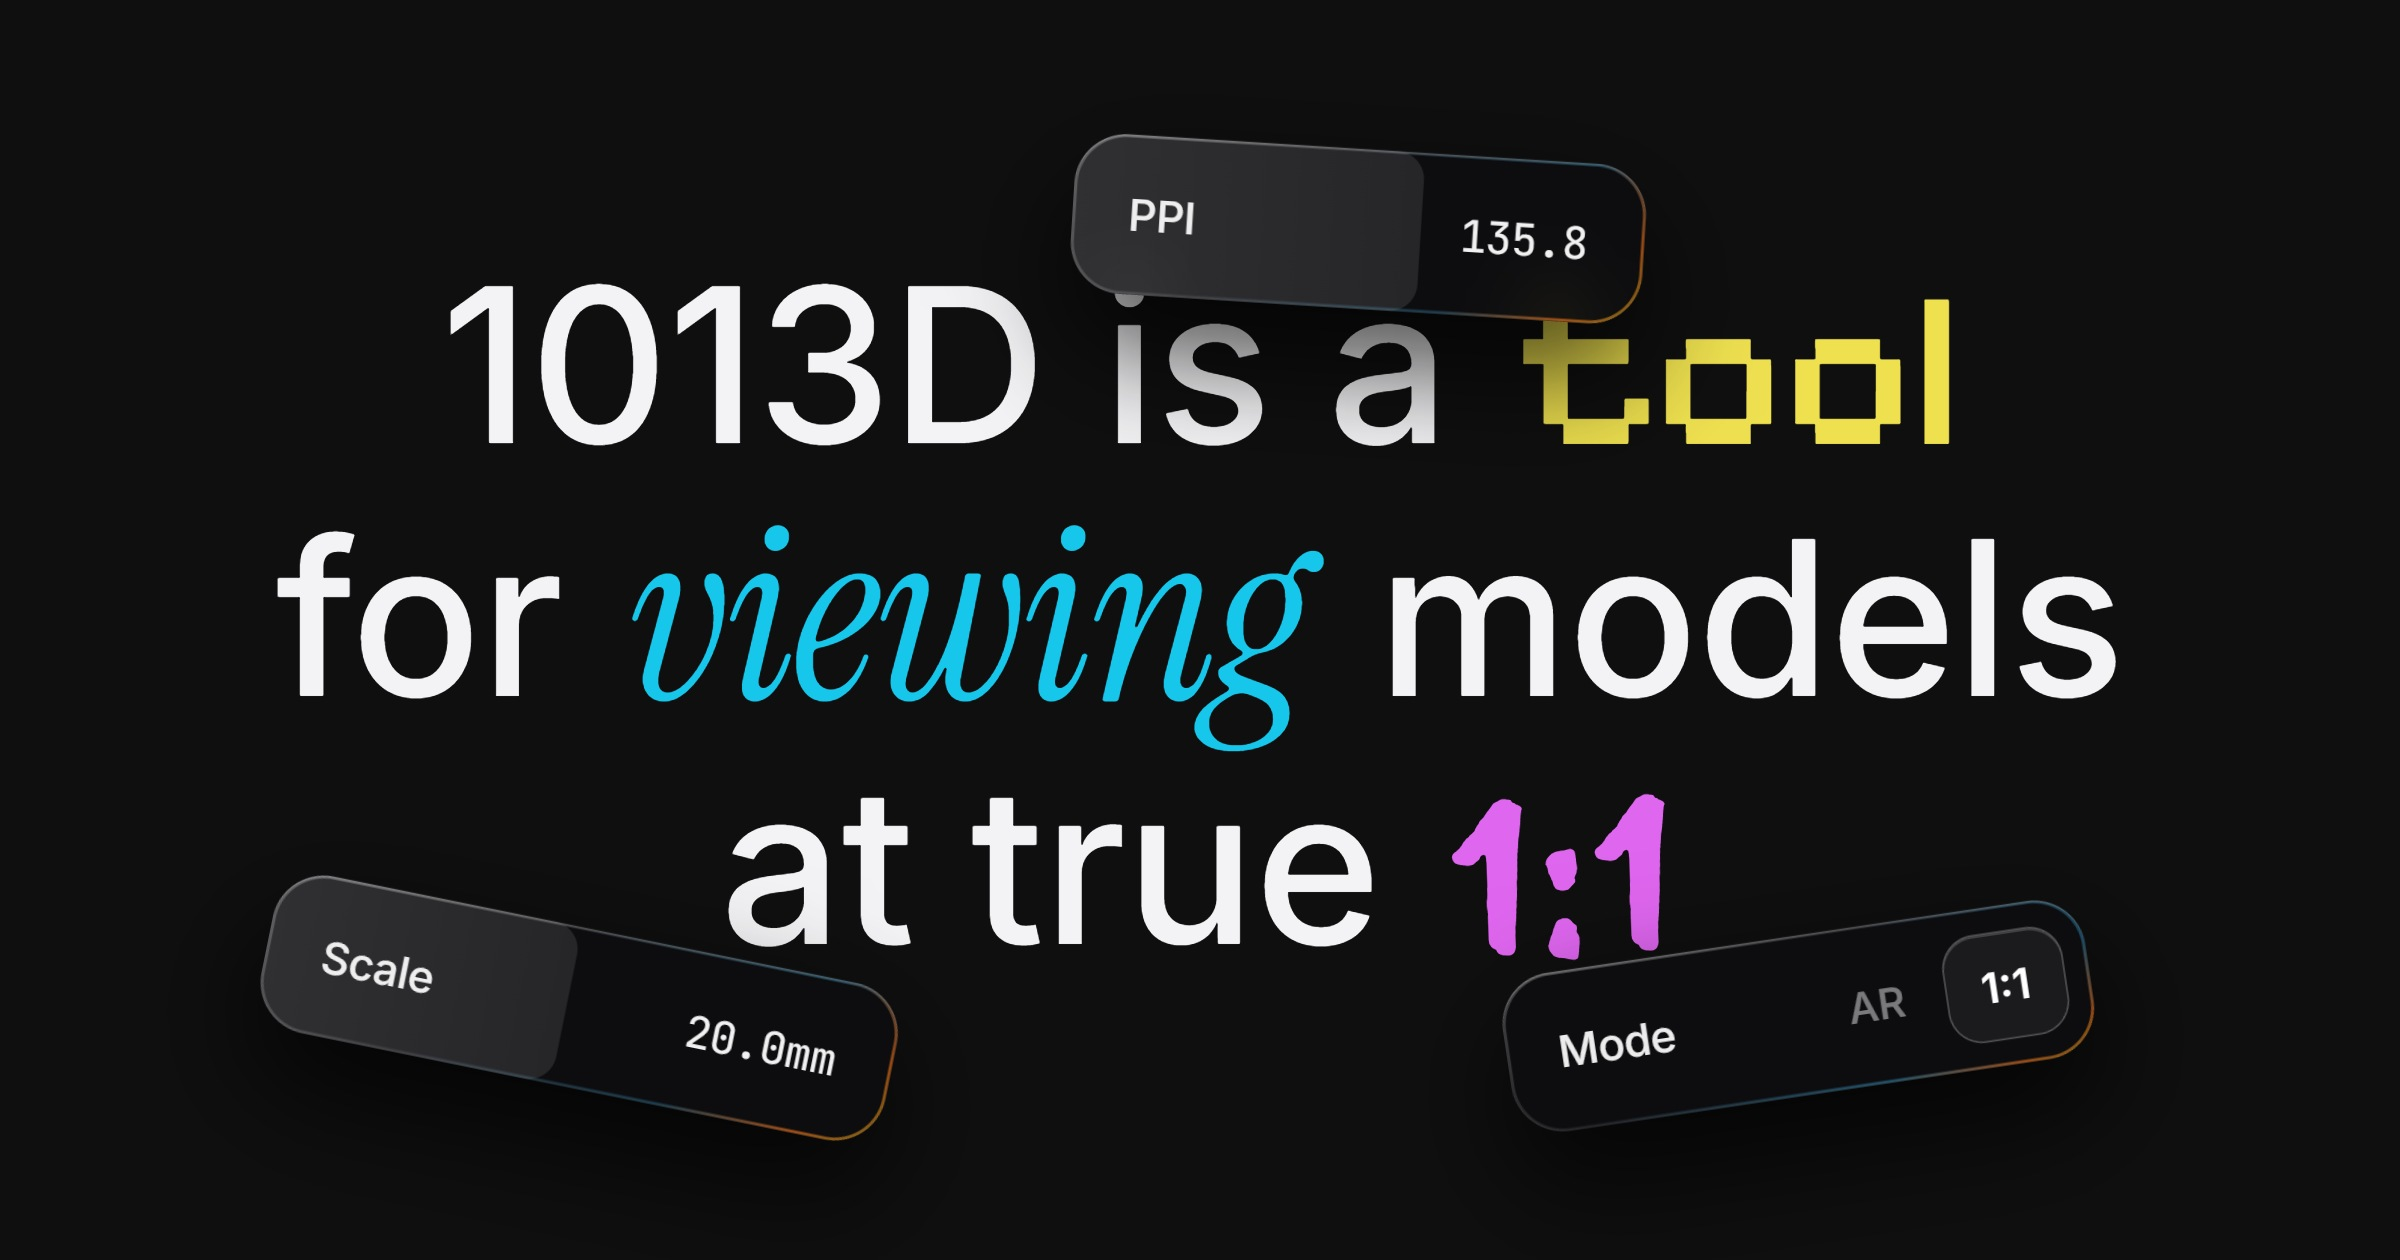
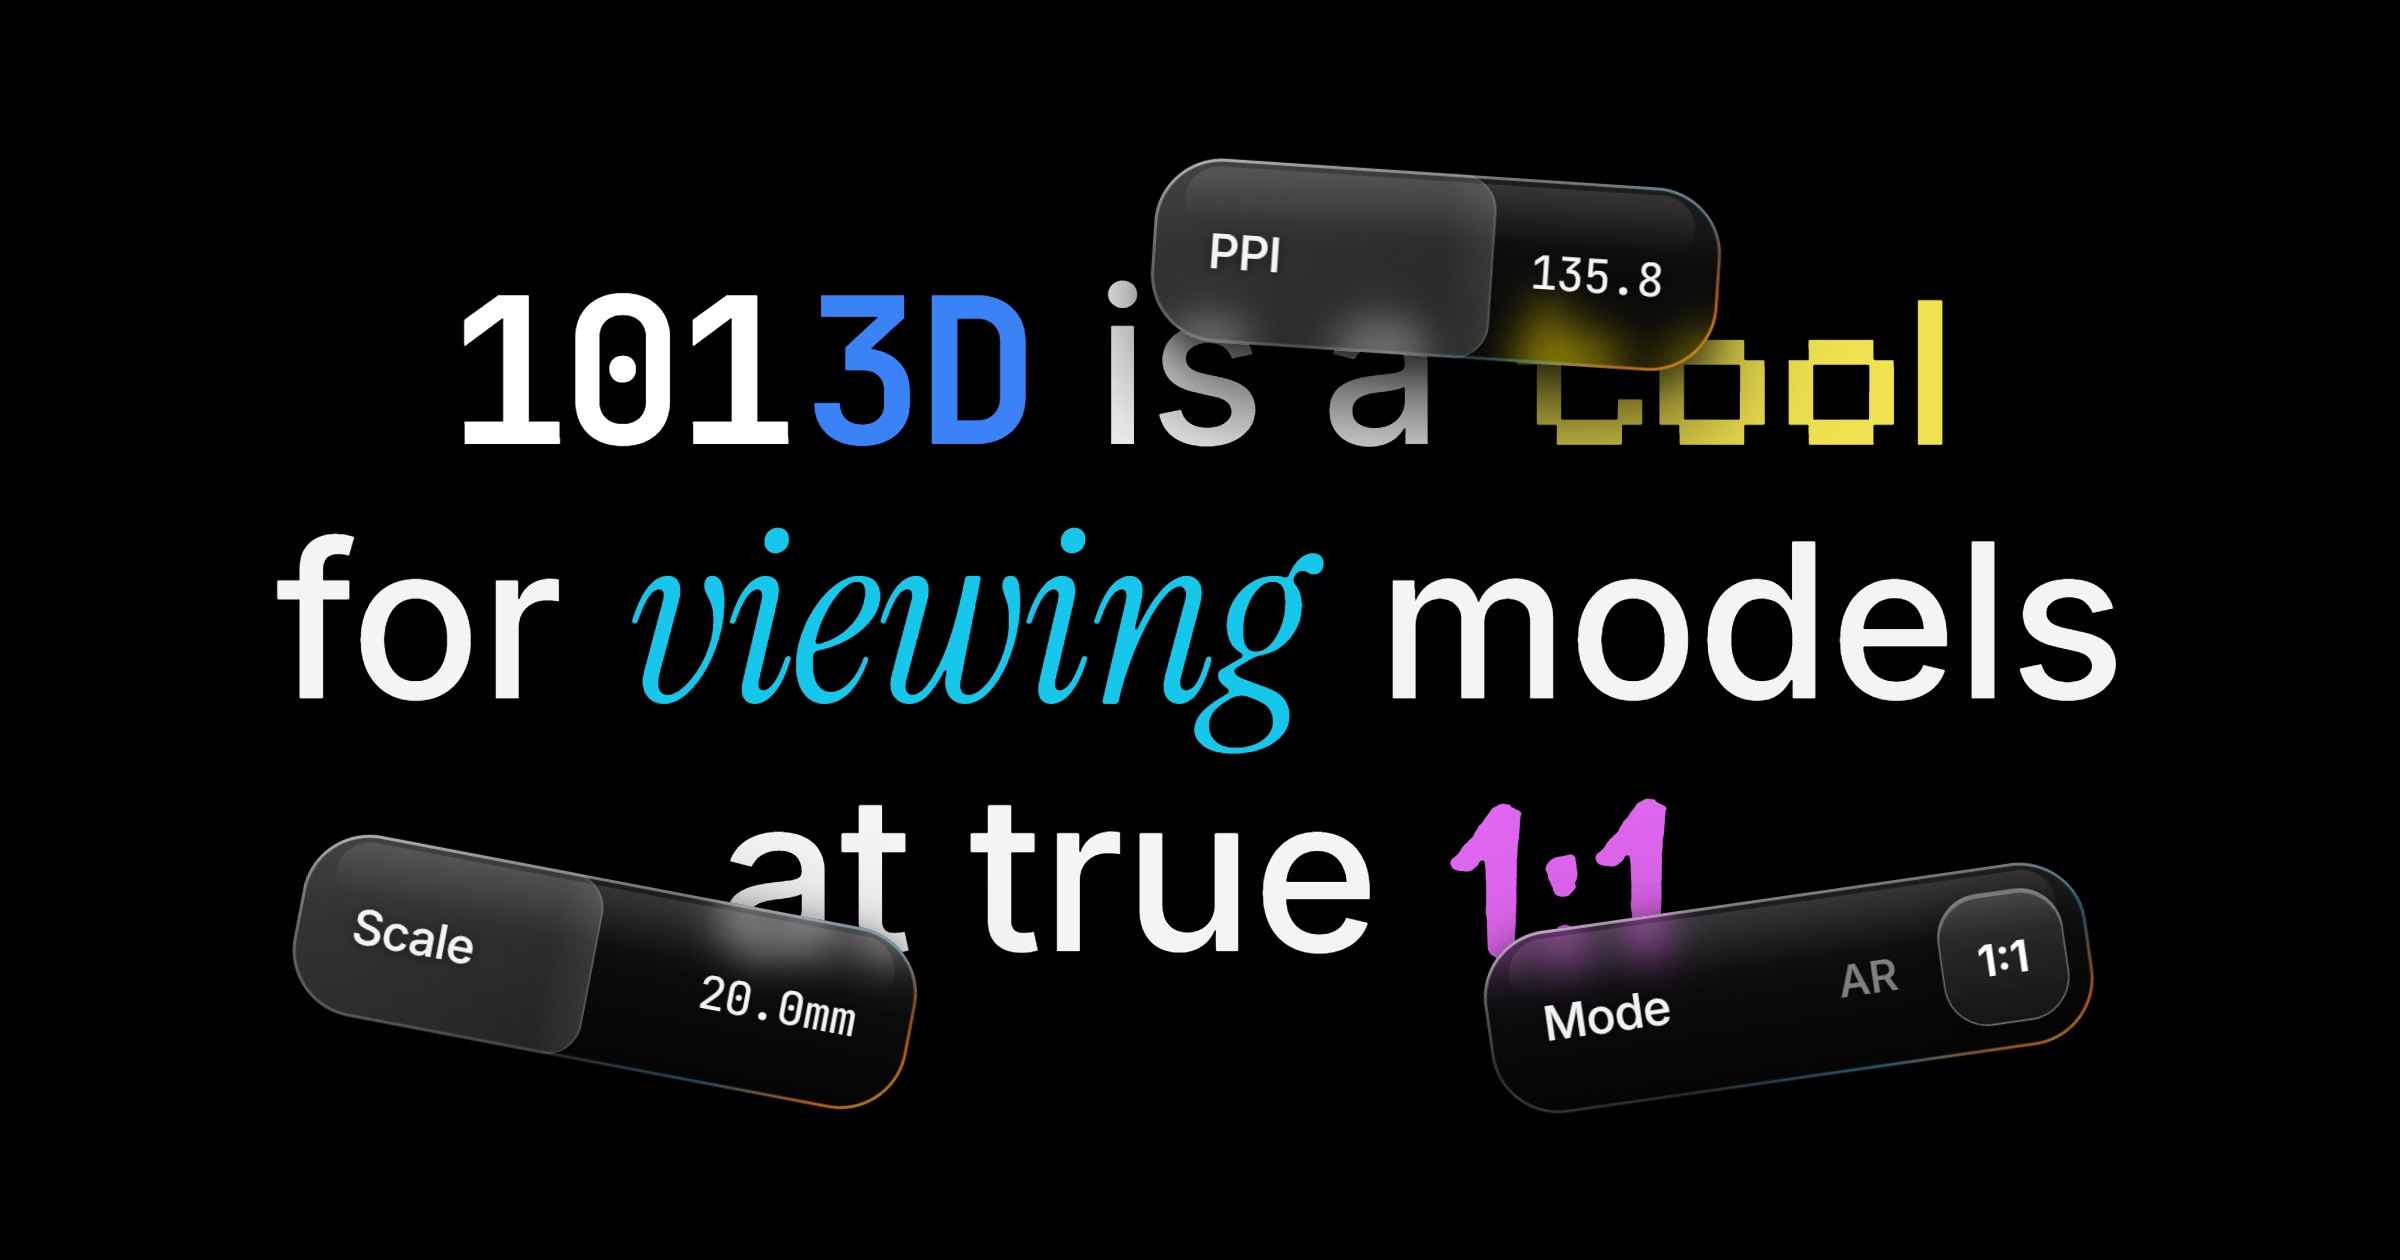
Refine OG preview: OLED black, blue 3D brand, and translucent glass pills

diff --git a/index.html b/index.html
@@ -24,13 +24,13 @@
     <meta property="og:site_name" content="1013D" />
     <meta property="og:title" content="1013D - Precision 1:1 Scale & AR Engine" />
     <meta property="og:description" content="Stop guessing scale. Verify your 3D prints at 1:1 physical size on screen, or place them in your room with AR." />
-    <meta property="og:image" content="https://1013d.pages.dev/og-image.jpg?v=2" /> 
+    <meta property="og:image" content="https://1013d.pages.dev/og-image.jpg?v=3" /> 
 
     <meta name="twitter:card" content="summary_large_image" />
     <meta name="twitter:url" content="https://1013d.pages.dev/" />
     <meta name="twitter:title" content="1013D - Precision 1:1 Scale & AR Engine" />
     <meta name="twitter:description" content="Stop guessing scale. Verify your 3D prints at 1:1 physical size on screen, or place them in your room with AR." />
-    <meta name="twitter:image" content="https://1013d.pages.dev/og-image.jpg?v=2" />
+    <meta name="twitter:image" content="https://1013d.pages.dev/og-image.jpg?v=3" />
 
     <link rel="icon" type="image/png" href="/favicon-96x96.png" sizes="96x96" />
     <link rel="icon" type="image/svg+xml" href="/favicon.svg" />
@@ -78,8 +78,8 @@
           "@id": "https://1013d.pages.dev/#software",
           "name": "1013D",
           "url": "https://1013d.pages.dev/",
-          "image": "https://1013d.pages.dev/og-image.jpg?v=2",
-          "screenshot": "https://1013d.pages.dev/og-image.jpg?v=2",
+          "image": "https://1013d.pages.dev/og-image.jpg?v=3",
+          "screenshot": "https://1013d.pages.dev/og-image.jpg?v=3",
           "applicationCategory": "EngineeringApplication",
           "operatingSystem": "All, Web Browser",
           "softwareRequirements": "WebGL 2.0",
